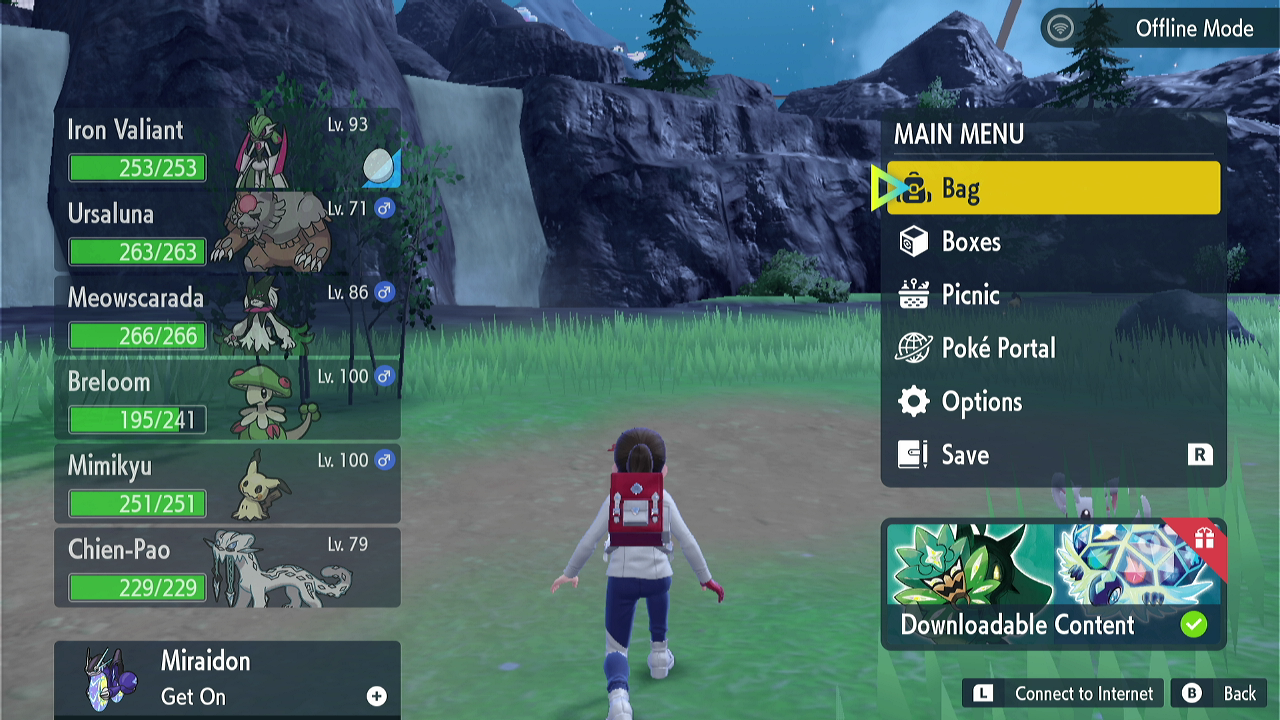
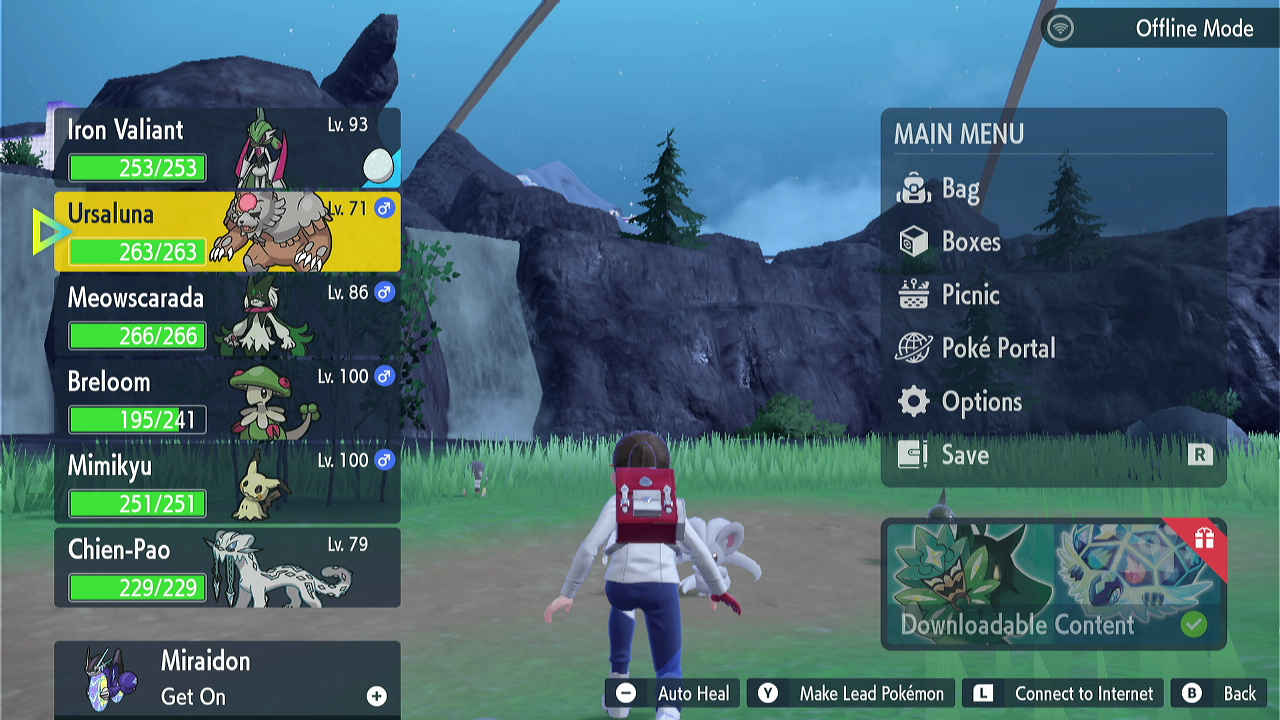
Got rid of a bug in the pokemon releaser

diff --git a/Constants.py b/Constants.py
@@ -480,8 +480,6 @@ SV_STATES = {
         "menu_screen": {
             "color": (252, 252, 252),
             "positions": [
-                (1020, 124),
-                (1012, 134),
                 (989, 687),
                 (977, 696)
             ],
@@ -553,7 +551,7 @@ SV_STATES = {
     "menu": {
         "pokemon1": {
             "index": 0,
-            "color": (13, 212, 244),
+            "color": (17, 204, 228),
             "rois": [(327, 110, 60, 25)],
             "positions": [
                 (356, 112),
@@ -562,7 +560,7 @@ SV_STATES = {
             },
         "pokemon2": {
             "index": 1,
-            "color": (13, 212, 244),
+            "color": (17, 204, 228),
             "rois": [(327, 192, 60, 25)],
             "positions": [
                 (363, 196),
@@ -571,8 +569,8 @@ SV_STATES = {
             },
         "pokemon3": {
             "index": 2,
-            "color": (13, 212, 244),
-            "rois": [(327, 274, 60, 25)],
+            "color": (17, 204, 228),
+            "rois": [(327, 276, 60, 25)],
             "positions": [
                 (364, 279),
                 (396, 279)
@@ -580,8 +578,8 @@ SV_STATES = {
             },
         "pokemon4": {
             "index": 3,
-            "color": (13, 212, 244),
-            "rois": [(327, 356, 60, 25)],
+            "color": (17, 204, 228),
+            "rois": [(327, 360, 60, 25)],
             "positions": [
                 (349, 365),
                 (397, 364)
@@ -589,8 +587,8 @@ SV_STATES = {
             },
         "pokemon5": {            
             "index": 4,
-            "color": (13, 212, 244),
-            "rois": [(327, 438, 60, 25)],
+            "color": (17, 204, 228),
+            "rois": [(327, 444, 60, 25)],
             "positions": [
                 (349, 447),
                 (393, 448)
@@ -598,8 +596,8 @@ SV_STATES = {
             },
         "pokemon6": {            
             "index": 5,
-            "color": (13, 212, 244),
-            "rois": [(327, 520, 60, 25)],
+            "color": (17, 204, 228),
+            "rois": [(327, 528, 60, 25)],
             "positions": [
                 (350, 532),
                 (395, 533)
@@ -607,7 +605,7 @@ SV_STATES = {
             },
         "ride": {            
             "index": 6,
-            "color": (13, 212, 244),
+            "color": (17, 204, 228),
             "rois": [],
             "positions": [
                 (297, 646),
@@ -616,7 +614,7 @@ SV_STATES = {
             },
         "bag": {           
             "index": 7,
-            "color": (13, 212, 244),
+            "color": (17, 204, 228),
             "rois": [(890, 164, 328, 48)],
             "positions": [
                 (995, 182),
@@ -625,7 +623,7 @@ SV_STATES = {
             },
         "boxes": {            
             "index": 8,
-            "color": (13, 212, 244),
+            "color": (17, 204, 228),
             "rois": [(890, 216, 328, 48)],
             "positions": [
                 (1009, 233),
@@ -634,7 +632,7 @@ SV_STATES = {
             },
         "picnic": {            
             "index": 9,
-            "color": (13, 212, 244),
+            "color": (17, 204, 228),
             "rois": [(890, 268, 328, 48)],
             "positions": [
                 (1012, 286),
@@ -643,7 +641,7 @@ SV_STATES = {
             },
         "portal": {           
             "index": 10,
-            "color": (13, 212, 244),
+            "color": (17, 204, 228),
             "rois": [(890, 320, 328, 48)],
             "positions": [
                 (994, 338),
@@ -652,7 +650,7 @@ SV_STATES = {
             },
         "options": {           
             "index": 11,
-            "color": (13, 212, 244),
+            "color": (17, 204, 228),
             "rois": [(890, 372, 328, 48)],
             "positions": [
                 (954, 389),
@@ -661,7 +659,7 @@ SV_STATES = {
             },
         "save": {            
             "index": 12,
-            "color": (13, 212, 244),
+            "color": (17, 204, 228),
             "rois": [(890, 216, 328, 48)],
             "positions": [
                 (992, 445),
@@ -670,7 +668,7 @@ SV_STATES = {
             },
         "content": {           
             "index": 13,
-            "color": (13, 212, 244),
+            "color": (17, 204, 228),
             "rois": [(890, 424, 328, 48)],
             "positions": [
                 (1051, 615),

diff --git a/Modules/Macros.py b/Modules/Macros.py
@@ -24,7 +24,7 @@ BTN_RSTICK = 11
 BTN_HOME = 12
 BTN_CAPTURE = 13
 
-def release_pokemon(ctrl: Controller, image: Image_Processing, game: str, box_amount: int) -> str:
+def release_pokemon(ctrl: Controller, image: Image_Processing, game: str, box_amount: int, row: int = 0, col: int = 0) -> str:
     """
     Should work for SWSH, BDSP, LA, and SV.\n
     LZA has a shiny symbol roi check instead of a state check.\n
@@ -36,7 +36,7 @@ def release_pokemon(ctrl: Controller, image: Image_Processing, game: str, box_am
         has_egg     = check_state(image, game, "pokemon", "egg_in_box")
         return has_pokemon, has_shiny, has_egg
 
-    def _release_pokemon(ctrl: Controller, game: str, row: int = 0, col: int = 0):
+    def _release_pokemon(ctrl: Controller, game: str):
         ctrl.tap(BTN_A, 0.05, 0.5)
         ctrl.dpad(0); sleep(0.2)
         ctrl.dpad(0); sleep(0.2)
@@ -79,6 +79,7 @@ def release_pokemon(ctrl: Controller, image: Image_Processing, game: str, box_am
             if not (row == rows - 1 and col == cols - 1):
                 row, col = box_grid_advance(ctrl, row, col, sleep_time=0.33)
         next_box(ctrl); sleep(0.33)
+        
     return return_states(image, "PROGRAM_FINISHED")
 
 def home_screen_checker_macro(ctrl: Controller, image: Image_Processing, state: str | None) -> str:
@@ -264,7 +265,7 @@ def put_egg(ctrl, image, game: str) -> None:
 
         if check_state(image, game, "pokemon_in_box"):  # gate: only if something is there
             # confirm shiny over a few frames so one bad frame doesn't miss
-            shiny = wait_for_state(image, game, "shiny_symbol", timeout=0.25, min_frames=2)
+            shiny = wait_state(image, game, False, 0.25, "pokemon", "shiny_symbol")
             if shiny:
                 image.shiny += 1
 

diff --git a/Programs/SV_Scripts.py b/Programs/SV_Scripts.py
@@ -98,10 +98,9 @@ def Pokemon_Releaser_SV(image: Image_Processing, ctrl: Controller, state: str | 
         image.debugger.set_rois_for_state("IN_MENU", all_rois, (0, 0, 0))
         sleep(2)
         Menu_Navigation(ctrl, image, "boxes")
-        ctrl.tap(BTN_A); sleep(1.75)
+        ctrl.tap(BTN_A); sleep(2.5)
         image.debugger.clear()
         return return_states(image, "IN_BOX")
     
     elif image.state == "IN_BOX":
         return release_pokemon(ctrl, image, "SV", image.cfg["inputs"][0])
-        

diff --git a/Modules/Dataclasses.py b/Modules/Dataclasses.py
@@ -72,3 +72,11 @@ class Running:
     paused: bool = False
     run_last_t:float = 0.0
     run_seconds:float = 0.0
+
+@dataclass
+class ReleasePokemon:
+    box_amount: int = 1
+    box_i: int = 0
+    row: int = 0
+    col: int = 0
+    
